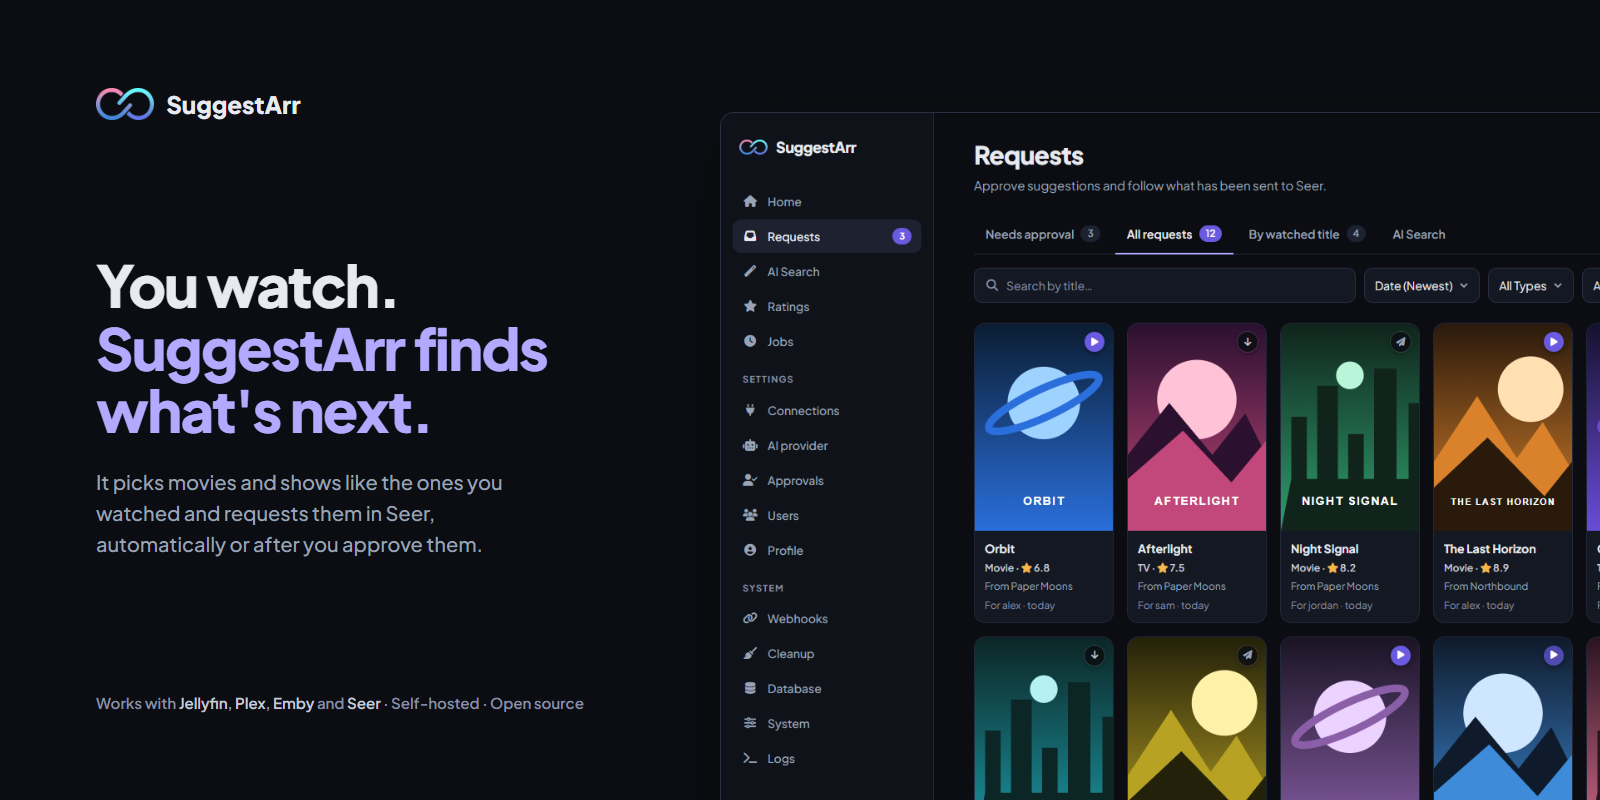
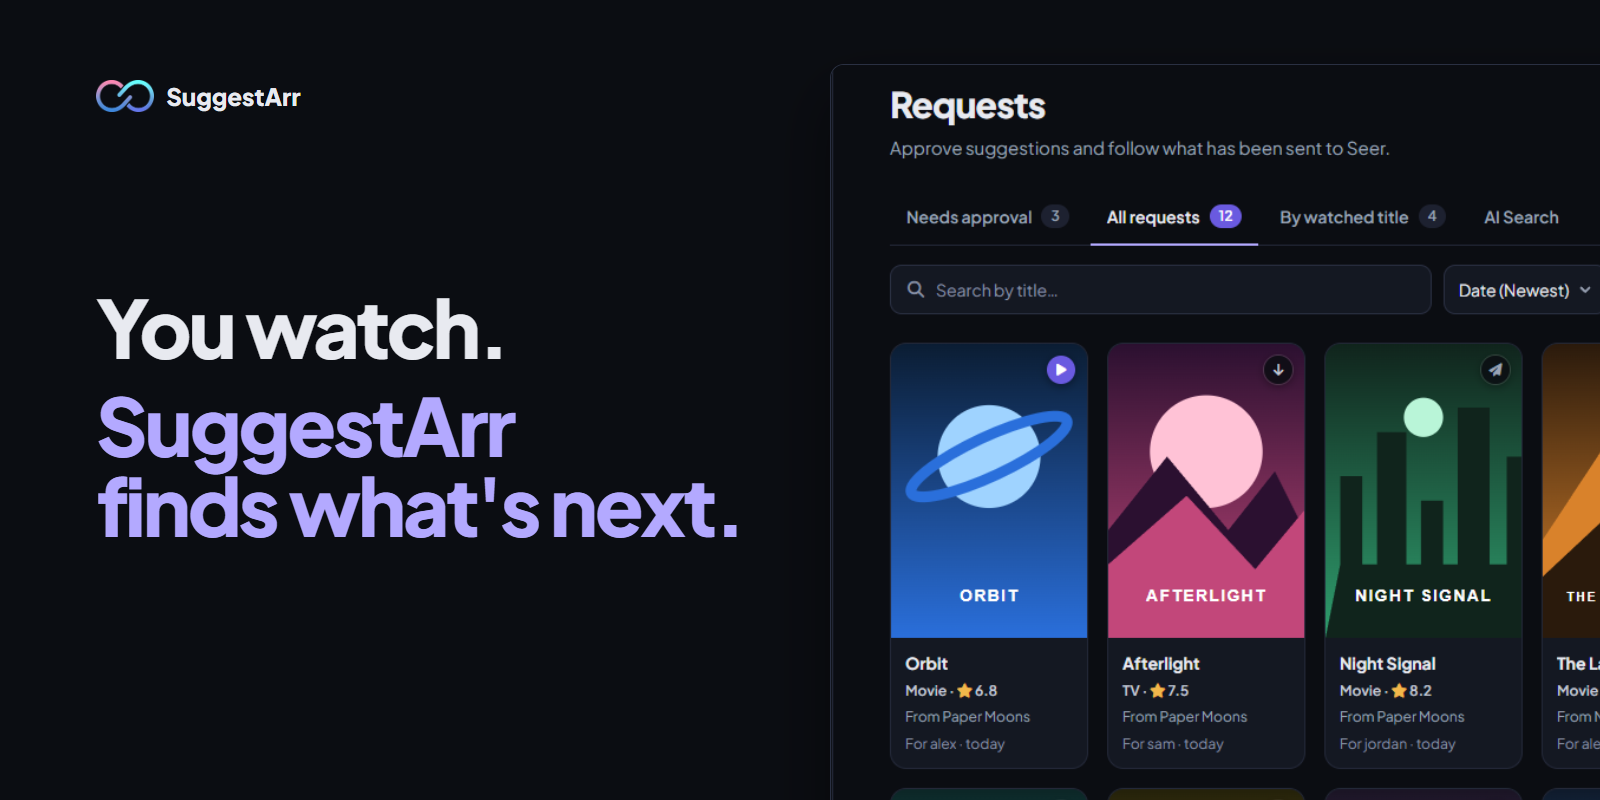
docs: bolder README hero, headline only

diff --git a/client/docs-screenshots/screenshots.spec.js b/client/docs-screenshots/screenshots.spec.js
@@ -191,26 +191,24 @@ test("README hero image", async ({ page }) => {
       * { margin: 0; box-sizing: border-box; }
       body { width: 1600px; height: 800px; overflow: hidden; position: relative; background: #0b0d12; color: #e8eaf0;
         font-family: "Plus Jakarta Sans", sans-serif; }
-      .copy { position: absolute; left: 96px; top: 88px; bottom: 88px; width: 540px; display: flex; flex-direction: column; }
+      .copy { position: absolute; left: 96px; top: 80px; bottom: 80px; width: 620px; display: flex; flex-direction: column; }
       .brand { display: flex; align-items: center; gap: 12px; font-size: 24px; font-weight: 800; }
       .brand img { height: 32px; }
       .main { margin-top: auto; margin-bottom: auto; }
-      h1 { font-size: 58px; line-height: 1.08; font-weight: 800; letter-spacing: -1.6px; }
+      h1 { font-size: 80px; line-height: 1; font-weight: 800; letter-spacing: -3px; white-space: nowrap; }
+      h1 .lead { display: block; margin-bottom: 18px; }
       h1 span { color: #b3a9ff; }
-      p { margin-top: 24px; font-size: 20px; line-height: 1.55; color: #9aa3b5; font-weight: 500; max-width: 470px; }
-      .meta { font-size: 15px; color: #8790a3; font-weight: 600; }
-      .meta b { color: #c5cbd8; font-weight: 600; }
-      .window { position: absolute; left: 720px; top: 112px; width: 1200px; border-radius: 14px; overflow: hidden;
+      h1 .lead { color: #e8eaf0; }
+      .window { position: absolute; left: 830px; top: 64px; width: 1000px; height: 900px; border-radius: 14px; overflow: hidden;
         border: 1px solid #2a3042; box-shadow: 0 30px 60px rgba(0, 0, 0, .45); }
-      .window img { display: block; width: 100%; }
+      /* Crop the sidebar away so the posters carry the image. */
+      .window img { display: block; width: 1700px; margin-left: -300px; margin-top: -20px; }
     </style></head><body>
     <div class="copy">
       <div class="brand"><img src="${logo}" alt="">SuggestArr</div>
       <div class="main">
-        <h1>You watch.<br><span>SuggestArr finds what's next.</span></h1>
-        <p>It picks movies and shows like the ones you watched and requests them in Seer, automatically or after you approve them.</p>
+        <h1><span class="lead">You watch.</span><span>SuggestArr<br>finds what's next.</span></h1>
       </div>
-      <div class="meta">Works with <b>Jellyfin</b>, <b>Plex</b>, <b>Emby</b> and <b>Seer</b> · Self-hosted · Open source</div>
     </div>
     <div class="window"><img src="${data(join(OUT, "requests.png"))}" alt=""></div>
     </body></html>`);
